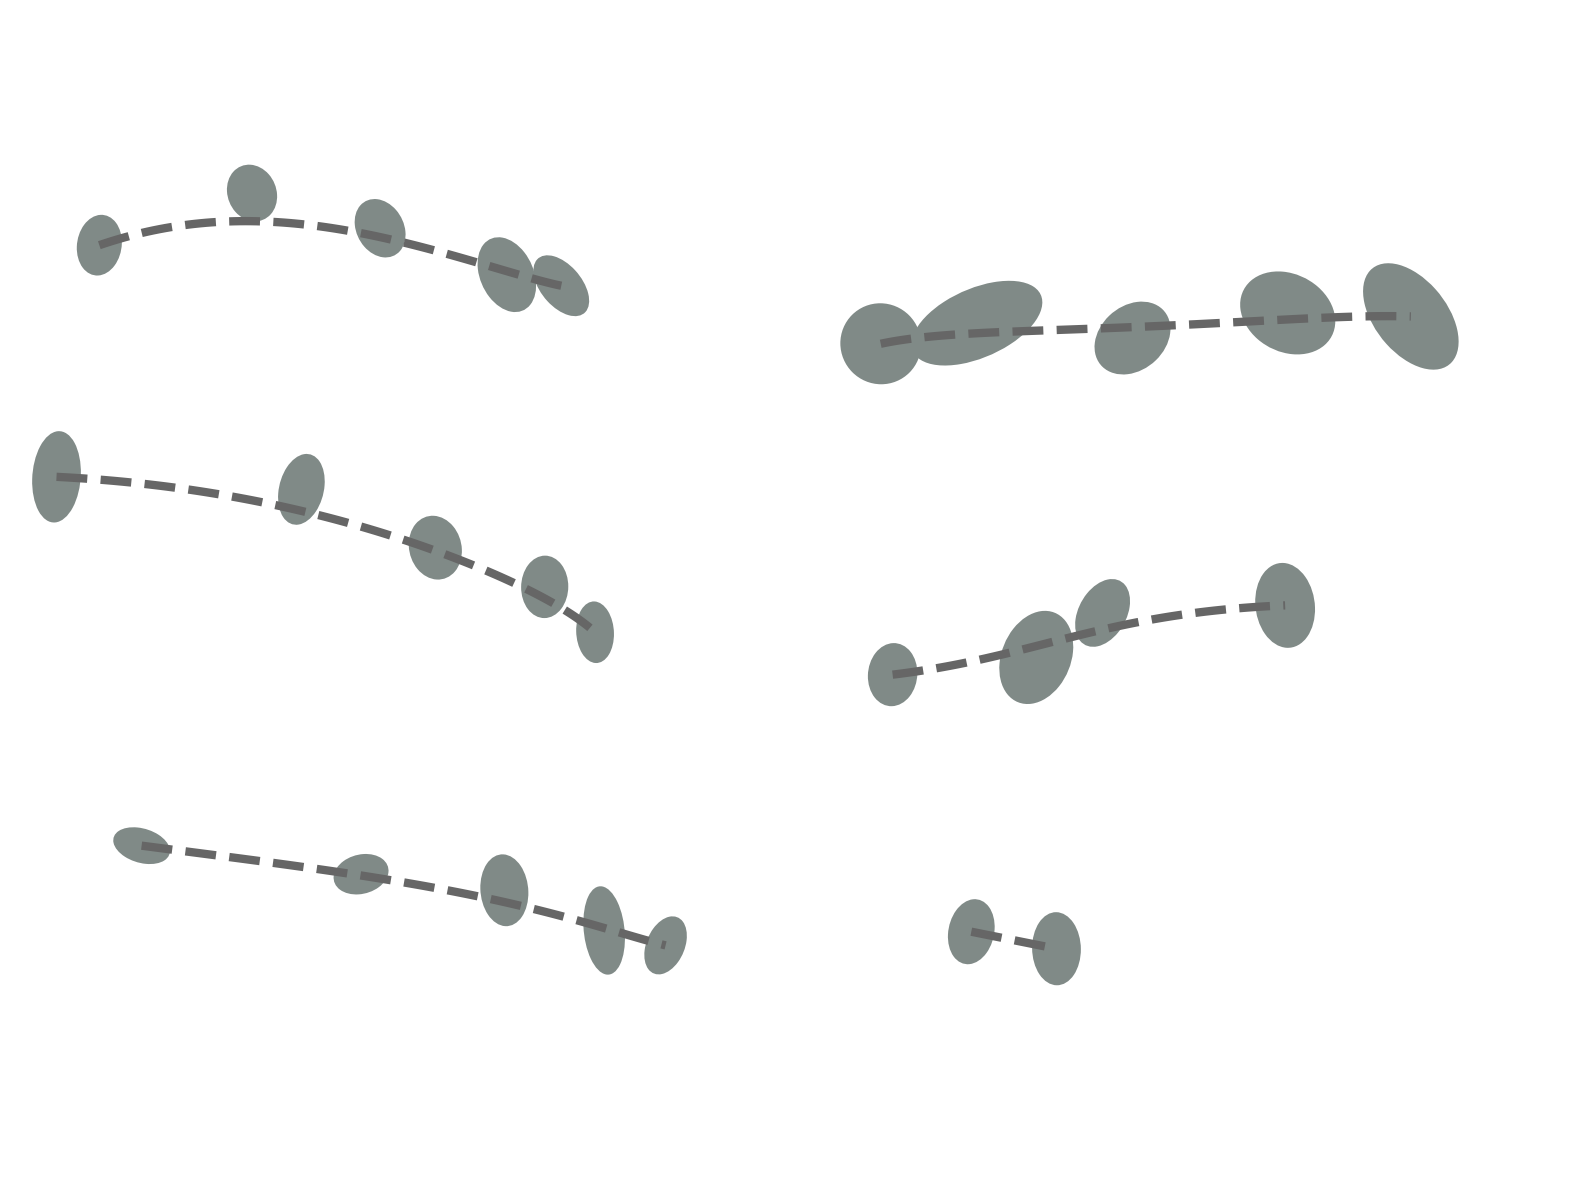
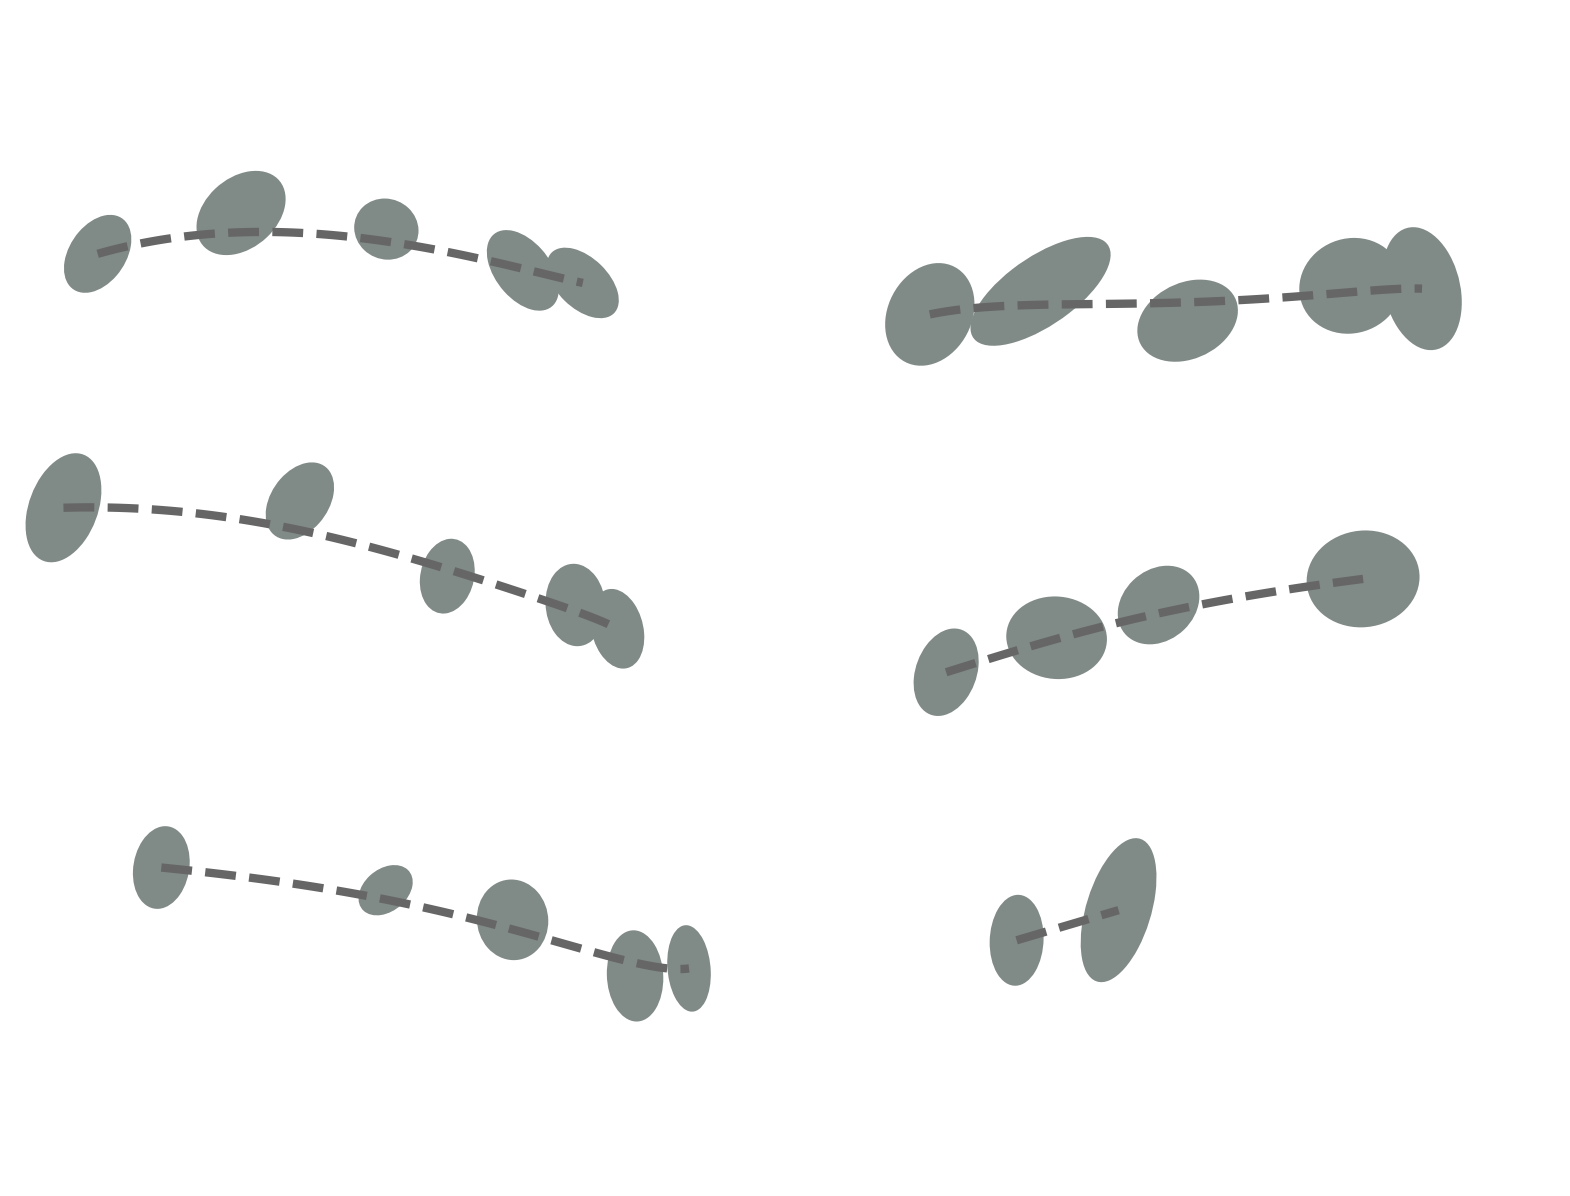
5.26

diff --git a/data/chap6.tex b/data/chap6.tex
@@ -1,13 +1,79 @@
 % !TeX root = ../main.tex
 \chapter{实验二：真实使用场景下的评测} %字符级别输入的部分
 \label{cha:evaluation}
+根据上一章的模拟结果，我们将半键盘的相对算法集成到了系统中，作为我们单词级别输入的模型。此外，我们还在系统中实现了字符级别输入。在本章中，我们介绍了整个系统的设计，并对单词级别输入、字符级别输入和混合模式输入三种使用场景做了用户评测。
+
 \section{平台设计}
+% 平台图以及如何进行切换
+\subsection{单词级别}
+在单词级别的输入中，用户和实验一相同，将双手放置于手机前，在不显示键盘的情况下，按照自己的肌肉记忆在桌面上进行十指输入。
+
+用户在进行输入时，平台的算法会根据用户点击的位置预测出用户可能的目标单词。屏幕上会显示出现概率最高的五个单词，用户可以使用右手右滑切换目标单词，和物理键盘相似，用户通过点击空格键选择当前光标的指向单词。如果用户认为自己输入出现错误，用户可以将左手左滑删除正在输入的部分或者删除上一个输入的单词。
+
+\subsection{字符级别}
+较为直观的输入字符的方式为显示完整键盘布局，用户移动到目标字符后进行选择。然而，由于手机的屏幕相对较小，且用户输入时眼部离手机有一定距离，因此若将所有字符完整显示在屏幕上不仅瞄准相对困难，且容易造成视觉疲劳。考虑到在单词级别输入时用户使用滑动的方式进行选择，我们字符级别的输入仍然采用类似的交互思路。
+
+总体上我们使用二级菜单的设计，如图~\ref{fig:design}。其中第一级菜单为九宫格键盘，包括了26个英文字母和3个其他字符；当用户选择第一级菜单的某个方格之后，会出现二级菜单，二级菜单显示了对应方格的字符供用户进行选择。在一二级菜单中，用户均可以使用右手右滑向右移动光标，左手左滑向左移动光标到达目标位置。仍然类似于单词输入，用户在一二级菜单进行选择时，可以使用右手任意手指进行点击。使用左手手指点击则对应退回的操作，如果当前在二级菜单则退回到一级菜单，如果在一级菜单则删除一个字符。
+
+我们的系统支持两种模式混合输入。用户通过点击离手机较远的位置（36cm之后）切换输入模式，我们实验一的数据表明，用户在正常输入时超过30cm的点击比例小于0.1\%，且最远为32cm。另外，用户能够很容易判断如何快速点击合适位置进行切换。
+
+\begin{figure}[htbp] % use float package if you want it here
+    \centering
+    \includegraphics[height=11cm]{figures/design.png}
+    \caption{平台设计结构图}
+    \label{fig:design}
+\end{figure}
+
 \section{被试}
+在评测实验中，我们招募了X名被试。被试们平均年龄为X岁（标准差=X），且均熟练使用实体键盘。我们仍使用了TextTest\cite{texttest}\cite{wobbrock2006analyzing}对他们物理键盘输入速度进行了测试，平均速度为单词每分钟，无纠正错误率为X\%。
+
 \section{实验装置和实验平台}
-\section{实验设计}
-\section{单词模式输入结果}
+本次实验的装置和实验一相同。实验平台同样类似，但是多了一行单词供用户进行选择，见图~\ref{fig:platform1}。
+
+\begin{figure}[h] % use float package if you want it here
+    \centering
+    \includegraphics[height=5cm]{figures/platform1.jpg}
+    \caption{实验二平台截图}
+    \label{fig:platform1}
+\end{figure}
+
+\section{实验设计和流程}
+为了研究我们的平台在不同情况下的输入效率，评测实验分为三个模式，分别是单词模式、字符模式和单词字符混合模式。操作方式见本章平台设计部分。为了避免不同模式顺序对结果的影响，每位用户实验时三个模式顺序随机，在屏幕上会标明当前的输入模式。在输入单词时，我们和第~\ref{cha:algorithm}~章一样，使用10,000个单词作为词库。
+
+在正式实验开始前，每位用户有10分钟的时间熟悉实验平台。在输入时，我们要求用户尽可能快而准确进行。每当用户输入完一句话后，用户可以点击任意按键跳到下一句。在输入块之间，用户需要强制休息2分钟。在完成一句后，用户也可以根据个人需求将手放在桌面上休息。
+
+
+\section{单词模式输入}
+在单词模式的输入中，用户需要完成4个输入块，每个输入块10句话。这40句话为T-40\cite{t40}打乱而成，同样也是Mackenzie句库的子集\cite{mackenzie2003phrase}。
+
 \subsection{输入速度}
 \subsection{输入准确性}
+我们使用CER\cite{cer}，即字符级别准确率来衡量用户输入的准确性。CER表示将用户输入的字符串改成目标句子需要的最少的删除、增加、替换操作总次数除以目标句子长度。当CER越接近1时，则输入准确性越高。对于每个句子，我们分别计算CER，最后取平均值。
+
+在单词输入模式中，CER整体平均值为0.15\%，四个输入块的平均值分别为0.0\%，0.6\%，0.0\%，0.0\%。总体来看，CER处于较低的水平，原因有两点，一是我们的算法准确性较高，能够预测用户的目标单词；二是即使用户点错位置或者选择了错误的单词，通常会选择重新进行输入。
+
 \subsection{用户行为数据}
-\section{字符模式输入结果}
-\section{混合模式输入结果}
+我们统计了用户在单词级别输入时的交互数据，其中“单词一匹配”表示用户选择了出现的第一个单词，且该单词与目标句子对应单词相同，“单词一不匹配”则表示选择单词一但是该单词错误；以此类推，“非单词一匹配”和“非单词一不匹配”分别表示用户选择的单词不是第一个时，该单词正确与否的情况。“撤销”操作表示用户未输入完一个单词时清空当前的输入内容；“删除”则表示用户删除输入框中一个单词，一般为选择了错误的单词后删除重新输入。
+
+\begin{table}[h]
+  \centering
+  \begin{minipage}[t]{0.9\linewidth} % 如果想在表格中使用脚注，minipage是个不错的办法
+  \caption[单词模式下用户各行为百分比]{单词模式下用户各行为百分比}
+  \label{tab:word-stat}
+    \centering
+    \begin{tabularx}{\linewidth}{cccccc}
+      \toprule[1.5pt]
+      %  & \multicolumn{2}{c}{总体}&\multicolumn{2}{c}{左手} &  \multicolumn{2}{c}{右手} \\\midrule[1pt]
+      单词一匹配 & 单词一不匹配 & 非单词一匹配 & 非单词一不匹配 & 删除 & 撤销\\\midrule[1pt]
+      75.38 & 2.56 & 15.89 & 0.00 & 3.58 & 2.56\\
+      \bottomrule[1.5pt]
+    \end{tabularx}
+  \end{minipage}
+\end{table}
+
+从表格~(\ref{tab:word-stat})可以看出，用户的绝大部分操作为“单词一匹配”（75.38\%），说明我们的算法能够很好预测用户的目标单词。不匹配的情况大部分出现在选择单词一时，表示用户输入完成一个单词直接点击确定，造成输入错误，然后用户会将该单词删除重新输入。该行为从侧面反应用户较为熟练我们的使用方法，出现类似在物理键盘上的行为。
+
+% \section{字符模式输入}
+% \section{混合模式输入}
+
+% \section{本章总结}

diff --git a/data/chap5.tex b/data/chap5.tex
@@ -7,7 +7,7 @@
 对于每一种算法，我们的输入为用户的点击位置信息，输出为该算法预测出的概率最高的五个可能的单词。然后将其与正确的单词进行比对，分别计算对应的概率第一高到概率第五高的单词级别准确率。我们使用的是美国国家语料库，其中收录了各种正式和非正式场景下超过了2,000万个单词。从该语料库中我们挑选了出现频率最高的10,000个单词作为词库，作为计算单词出现的概率。我们保证用户在上个实验中输入的单词都出现在词库中。
 
 \section{算法选择}
-在文献综述部分，我们提到虚拟键盘上通常使用的纠错算法都是基于贝叶斯原理，包括绝对位置和相对位置两种。相对位置的纠错算法也有两种形式，一是当一只手或者一个手指负责整个键盘时，研究者直接计算两次点击的位置变化；二是当用户使用两只手输入时，通常将两手的位置变化分开考虑，即计算一个单词的出现概率时，将一连串点击归类为左右手分别计算，最后相乘。然而，用户在十指盲打时，尤其是在我们的场景中是双手抬起，两只手的运动是一个整体，并不相互独立，因此点击也有可能呈现第一种相对位置运动规律，即仍然直接计算连续点击的位置变化。从而我们一共有三种推理算法，分别称为绝对模型、全键盘相对模型、半键盘相对模型。使用公式~(\ref{equ:fitkeyboard})~对三种点击模型进行拟合，表~\ref{tab:modelr2}~的结果显示所有的点击模型拟合$R^2$都超过了0.80，并且相对模型下对于纵轴的拟合效果更好，说明用户在纵轴的点击规律更符合相对模型。
+在文献综述部分，我们提到虚拟键盘上通常使用的纠错算法都是基于贝叶斯原理，包括绝对位置和相对位置两种。相对位置的纠错算法也有两种形式，一是当一只手或者一个手指负责整个键盘时，研究者直接计算两次点击的位置变化；二是当用户使用两只手输入时，通常将两手的位置变化分开考虑，即计算一个单词的出现概率时，将一连串点击归类为左右手分别计算，最后相乘。然而，用户在十指盲打时，尤其是在我们的场景中是双手抬起，两只手的运动是一个整体，可能并不相互独立，我们试图探索其是否可能呈现第一种相对位置运动规律，即运算时直接计算连续点击的位置变化。从而我们一共有三种推理算法，分别称为绝对模型、全键盘相对模型（第一种形式）、半键盘相对模型（第二种形式）。使用公式~(\ref{equ:fitkeyboard})~对三种点击模型进行拟合，如果时相对模型，则将式中$x$，$y$，$\textbf{X}$，$\textbf{Y}$换成相对变化量。表~\ref{tab:modelr2}~的结果显示所有的点击模型拟合$R^2$都超过了0.80，并且相对模型下对于纵轴的拟合效果更好，说明用户在纵轴的点击规律更符合相对模型。在计算相对模型时，若出现对应的位置变化未在用户数据中出现，我们仍然使用绝对模型进行计算。
 
 \begin{table}[htb]
   \centering
@@ -20,20 +20,22 @@
       %  & \multicolumn{2}{c}{总体}&\multicolumn{2}{c}{左手} &  \multicolumn{2}{c}{右手} \\\midrule[1pt]
       & 绝对模型 & 全键盘相对模型 & 半键盘相对模型 \\\midrule[1pt]
       X & 0.96 (0.01) & 0.95 (0.01) & 0.82 (0.02) \\
-      Y & 0.85 (0.01) & 0.89 (0.01) & 0.91 (0.02)\\
+      Y & 0.85 (0.01) & 0.89 (0.01) & 0.91 (0.02) \\
       \bottomrule[1.5pt]
     \end{tabularx}
   \end{minipage}
 \end{table}
 
-此外，对于每一种点击模型，我们计算了单人和整体两种情况下的准确率。其中单人指的是将每个人的落点分别计算准确率后平均，整体指的是将所有人的落点合并并且平移后计算总准确率。在实际使用中，因为一开始缺乏用户个性化的数据，所以总是从整体出发。
+此外，对于每一种点击模型，我们计算了单人和整体两种情况下的准确率。其中单人指的是将每个人的落点分别计算准确率后平均，整体指的是将所有人的落点合并并且平移后计算总准确率。在实际使用中，因为一开始缺乏用户个性化的数据，所以总是从整体出发。对于每一种模型，我们都测试了676个单词。
 
 \section{模拟结果}
-不同情况下的准确率如图~\ref{fig:simulation}。可以看到，所有情况下的概率第一高的准确率都超过了80\%。对于不同的模型，单人平均值总是好于总体，因为每个人的点击规律并不相同，将按键平移后会增加不准确性，从而降低预测准确率。
+不同情况下的准确率模拟结果如图~\ref{fig:simulation}。可以看到，概率最低的为整体下使用全键盘相对模型，但仍然接近80\%，说明这几个模型的预测效果良好。同一个模型而言，单人的情况总是好于整体，因为每个人的点击规律并不相同，将按键平移后会增加不准确性，从而降低预测准确率。但是因为实验中人数较少，单人和整体的差距不是十分明显。
 
 \begin{figure}[h] % use float package if you want it here
     \centering
-    \includegraphics[width=8cm]{touchpoints.png}
+    \includegraphics[width=10cm]{figures/acc.jpg}
     \caption{不同算法模拟的准确率}
     \label{fig:simulation}
 \end{figure}
+
+比较不同模型，我们发现单人和整体的情况下，准确率大小都是半键盘相对模型、绝对模型、全键盘相对模型。说明用户在桌面上十指输入时，两只手独立分别运动的成分更大。绝对模型能够较好拟合用户落点，说明用户点击时能够明显区分不同的按键，半键盘的相对模型能够减少用户点击的误差，从而能够进一步提高准确率。

diff --git a/data/chap4.tex b/data/chap4.tex
@@ -1,10 +1,11 @@
 % !TeX root = ../main.tex
 \chapter{实验一：用户任意桌面点击行为规律}
+\label{cha:exp1}
 虽然相关文献已经表明用户能够将双手盲打的肌肉记忆迁移到不同的应用场景，例如大尺寸触摸屏、单手输入等等。然而，由于我们的交互界面并非触摸屏，而是一般的桌面，由于材质不同，用户输入时的触感也有一定差异。因此我们通过此实验进一步探究在普通桌面上用户双手输入的习惯和行为规律。
 
-\label{cha:exp1}
+
 \section{被试}
-在桌面上输入的实验中，我们一共招募了X名被试（男性X人，女性X人），平均年龄为X岁（标准差=X）。所有人都具有在物理键盘上熟练打字的使用习惯。此外，在正式实验开始前，我们首先使用Wobbrock编写的TextTest软件\cite{texttest}\cite{wobbrock2006analyzing}测试了他们在实体键盘上的打字速度和准确度。经过测试，被试们的输入速度为单词每分钟，无纠正情况的错误率为X\%。每位被试获得50元作为实验报酬。
+在桌面上十指输入的实验中，我们一共招募了X名被试（男性X人，女性X人），平均年龄为X岁（标准差=X）。所有人都具有在物理键盘上熟练打字的使用习惯。此外，在正式实验开始前，我们首先使用Wobbrock编写的TextTest软件\cite{texttest}\cite{wobbrock2006analyzing}测试了他们在实体键盘上的打字速度和准确度。经过测试，被试们的输入速度为X单词每分钟，无纠正情况的错误率为X\%。每位被试获得50元作为实验报酬。
 
 \section{实验装置和实验平台}
 \begin{figure}[h] % use float package if you want it here
@@ -112,11 +113,8 @@
       \toprule[1.5pt]
       %  & \multicolumn{2}{c}{总体}&\multicolumn{2}{c}{左手} &  \multicolumn{2}{c}{右手} \\\midrule[1pt]
       & 按键大小(cm) & 键盘偏移(cm) & $R^{2}$ \\\midrule[1pt]
-      X & 2.54 (0.15) & -12.61 (1.00) & 0.96 \\
-      Y & 3.04 (0.04) & 20.57 (0.68) & 0.85\\
-      %  & X&Y&X & Y & X & Y \\\midrule[1pt]
-      % 按键大小(cm) & 2.54(0.15) & 3.04(0.04) & 2.09 (0.08) & 3.10(0.02) &  2.18(0.03)& 2.98(0.10)\\
-      % 偏移(cm) & -12.61(1.00) & 20.57(0.68) & -9.32(0.45) & 20.31(0.51) & -12.17(0.71) & 20.90(0.90)\\
+      X & 2.67 (0.24) & -13.17 (1.80) & 0.96 \\
+      Y & 3.35 (0.38) & 20.24 (1.15) & 0.85\\
       \bottomrule[1.5pt]
     \end{tabularx}
   \end{minipage}
@@ -128,7 +126,7 @@
 \subsection{键盘落点分布}
 图~\ref{fig:keyboard-curve}~展示了所有被试落点合并后的按键中心位置。从按键中心的分布情况可以看出，26个字母的相对位置仍然符合QWERTY布局。但是，不同于标准的物理键盘，落点分布呈现一定的弧形，和在触摸屏上十指盲打结果类似\cite{flatglass2011findlater}\cite{2018shitoast}。使用贝塞尔曲线分别拟合左右手每一行的按键中心如图\ref{fig:keyboard-curve}。
 
-我们计算了最左到最右，最上到最下中心点的距离平均值，分别为21.7cm和7.26cm，可见落点分布范围较大，与拟合出的按键较大结果相一致。左右两只手的中间有一定间隔，说明用户在桌面上进行十指盲打时倾向于将两手分开并保持一定的距离，和在触摸屏上类似\cite{flatglass2011findlater}。
+我们计算了最左到最右，最上到最下中心点的距离平均值，分别为22.8cm和7.97cm，可见落点分布范围较大，与拟合出的按键较大结果相一致。左右两只手的中间有一定间隔，说明用户在桌面上进行十指盲打时倾向于将两手分开并保持一定的距离，和在触摸屏上类似\cite{flatglass2011findlater}。
 \begin{figure}[ht]
   \centering
   \includegraphics[height=6cm]{curve.png}

diff --git a/data/chap7.tex b/data/chap7.tex
@@ -2,12 +2,6 @@
 \chapter{总结和未来工作}
 \label{cha:conclusion}
 \section{讨论}
-在本章中，我们通过上个实验收集的用户在桌面上的点击数据，进行模拟实验，试图探究能够预测用户输入单词的推理算法。
-
-对于每一种算法，我们的输入为用户的点击位置信息，输出为该算法预测出的概率最高的五个可能的单词。然后将其与正确的单词进行比对，分别计算对应的概率第一高到概率第五高的单词级别准确率。我们使用的是美国国家语料库，其中收录了各种正式和非正式场景下超过了2,000万个单词。从该语料库中我们挑选了出现频率最高的10,000个单词作为词库，作为计算单词出现的概率。我们保证用户在上个实验中输入的单词都出现在词库中。
-
-\section{算法选择}
-在文献综述部分，我们提到虚拟键盘上通常使用的纠错算法都是基于贝叶斯原理，包括绝对位置和相对位置两种。相对位置的纠错算法也有两种形式，一是当一只手或者一个手指负责整个键盘时，研究者直接计算两次点击的位置变化；二是当用户使用两只手输入时，通常将两手的位置变化分开考虑，即计算一个单词的出现概率时，将一连串点击归类为左右手分别计算，最后相乘。然而，用户在十指盲打时，尤其是在我们的场景中是双手抬起，两只手的运动是一个整体，并不相互独立，因此点击也有可能呈现第一种相对位置运动规律，即仍然直接计算连续点击的位置变化。从而我们一共有三种推理算法，分别称为绝对模型、全键盘相对模型、半键盘相对模型。使用公式~(\ref{equ:fitkeyboard})~对三种点击模型进行拟合，表~\ref{tab:modelr2}~的结果显示所有的点击模型拟合$R^2$都超过了0.80，并且相对模型下对于纵轴的拟合效果更好，说明用户在纵轴的点击规律更符合相对模型。
 
 \section{未来工作} %limitation: 声音、图像机器学习、插入删除、支持更好的休息、更多的人
 \section{总结}
